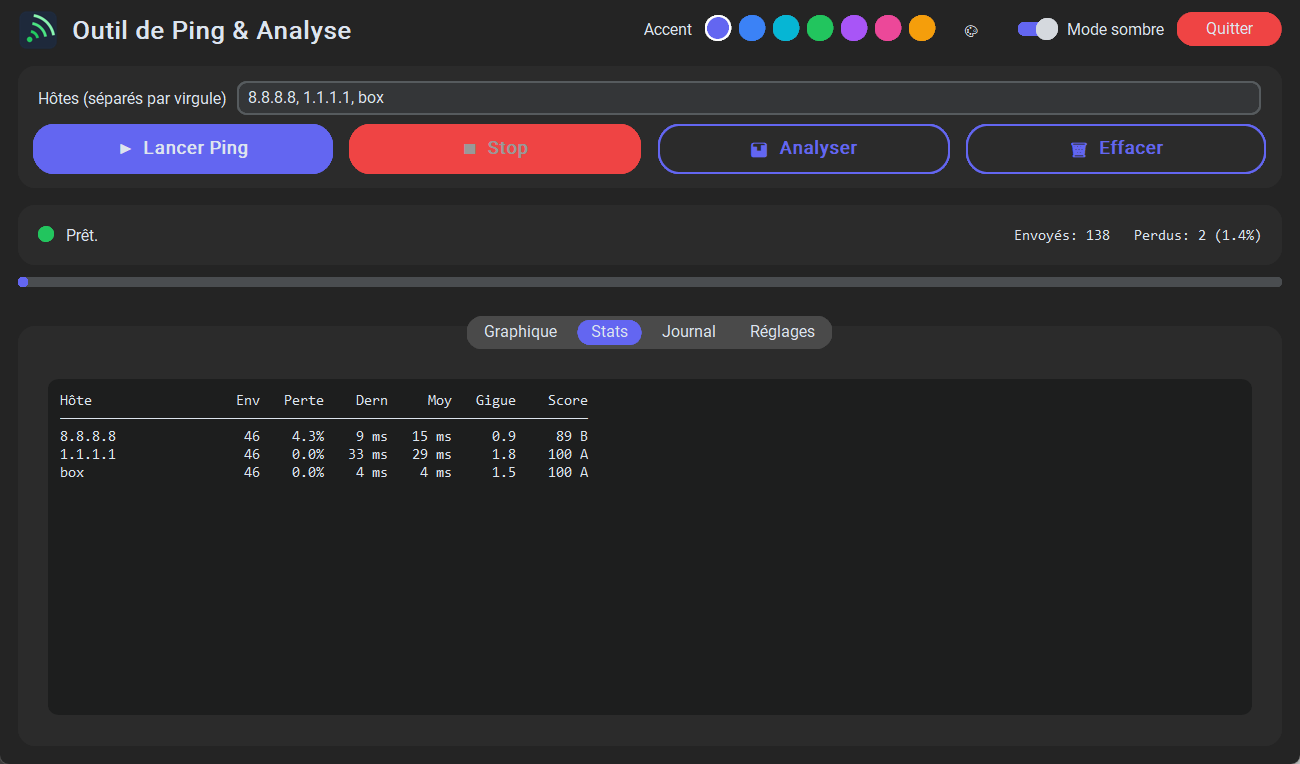
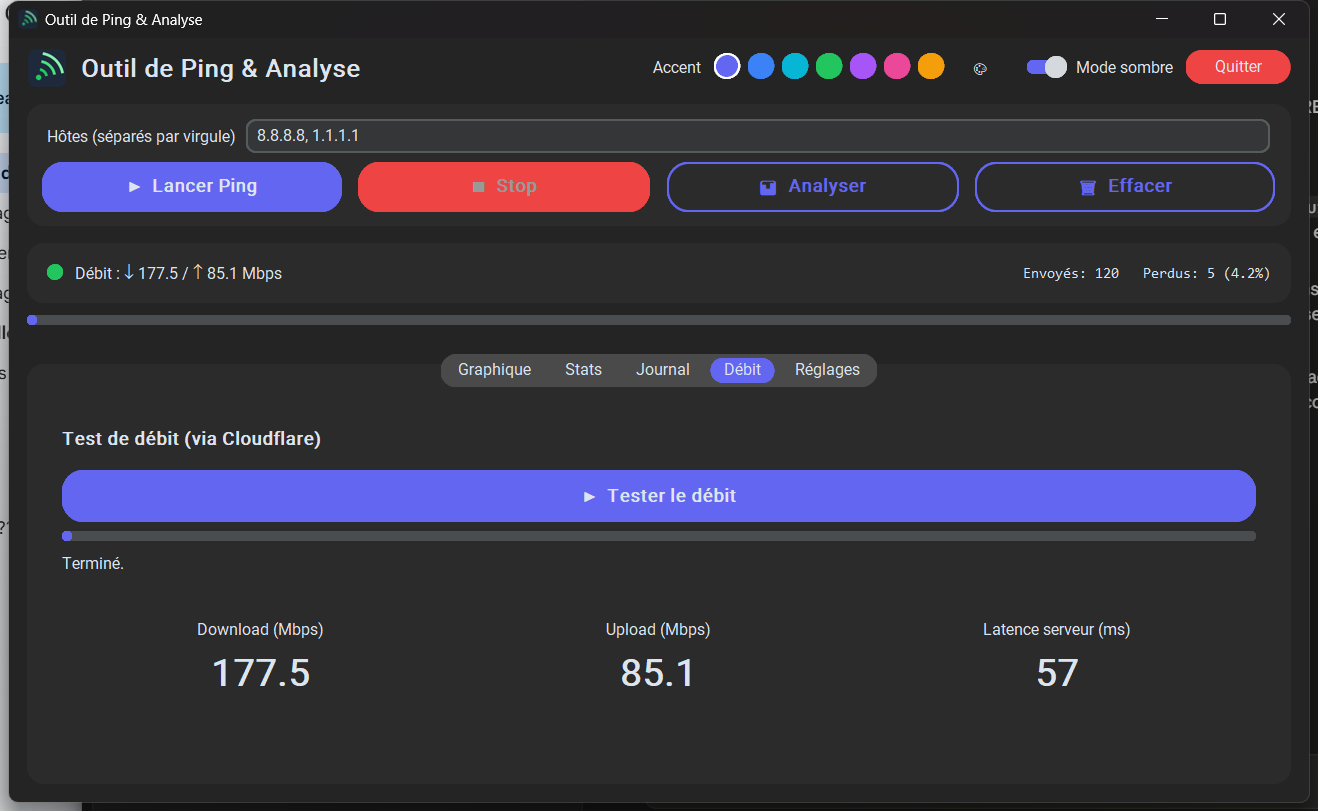
Met à jour les captures d'écran README (mode sombre, onglets Graphique + Débit)

diff --git a/README.md b/README.md
@@ -71,9 +71,9 @@ Un exécutable prêt à l'emploi est disponible dans la
 
 ## Aperçu
 
-| Mode clair (graphique) | Mode sombre (stats) |
+| Onglet Graphique | Onglet Débit |
 |---|---|
-| ![clair](docs/screenshot.png) | ![sombre](docs/screenshot-dark.png) |
+| ![graphique](docs/screenshot.png) | ![débit](docs/screenshot-dark.png) |
 
 ## Structure du projet
 